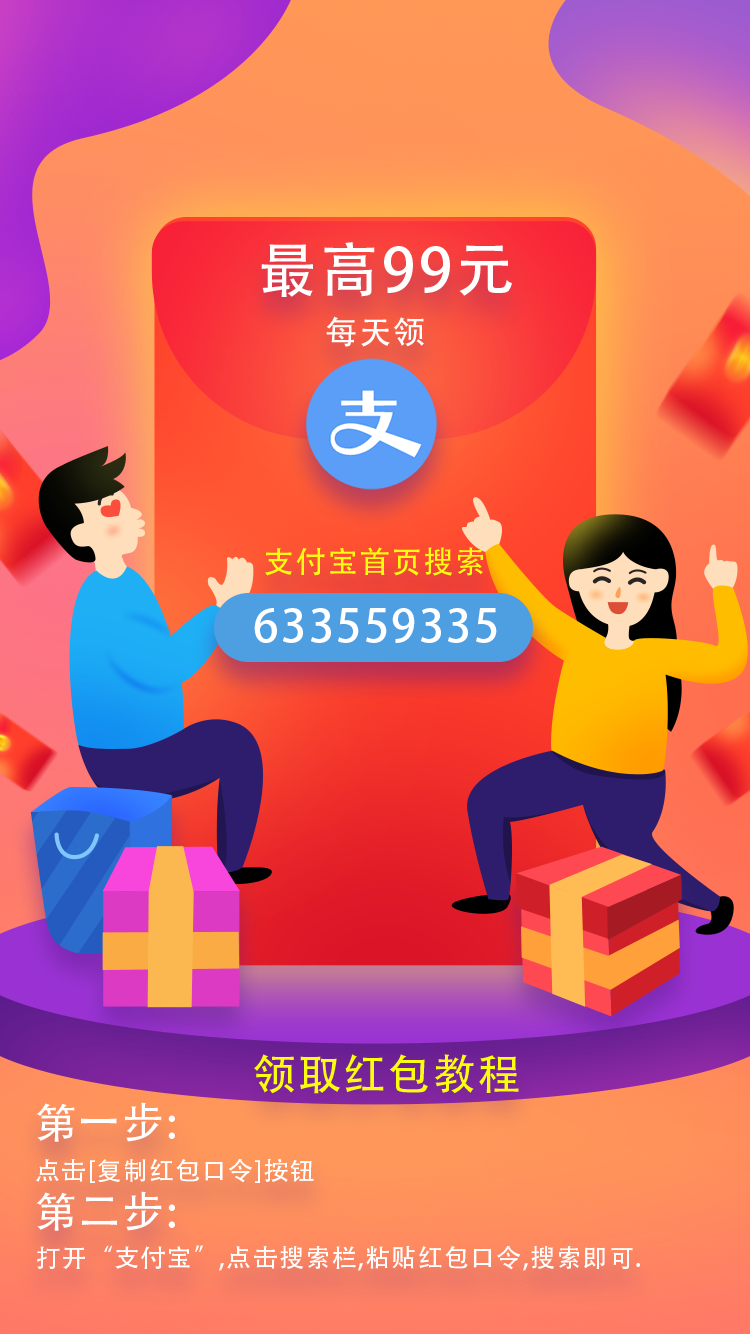
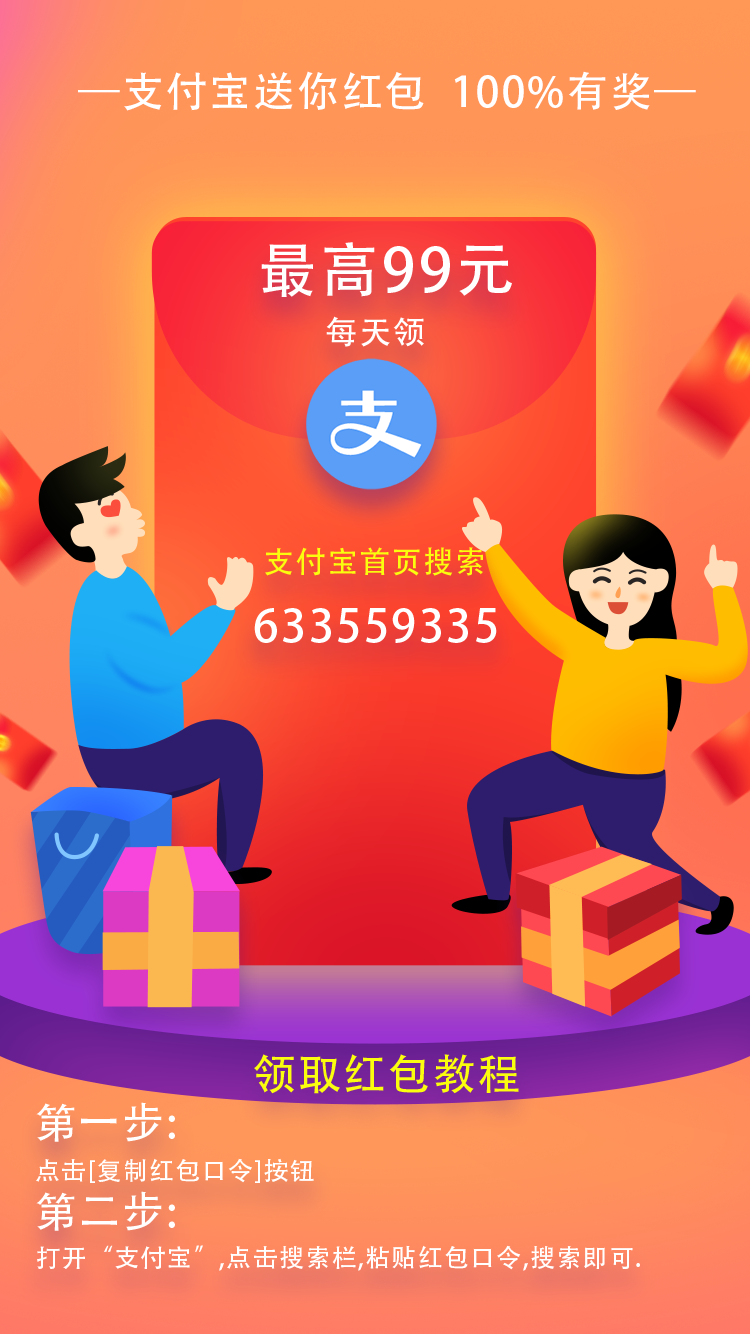
优化支付宝红包

diff --git a/alipay.html b/alipay.html
@@ -40,7 +40,7 @@
 		    border-radius: 24px;
 		    margin-left: auto;
 		    margin-right: auto;
-		    margin-top: 5%;
+		    margin-top: 55%;
 		}
 		.endtime{
 			margin-top: 3%;
